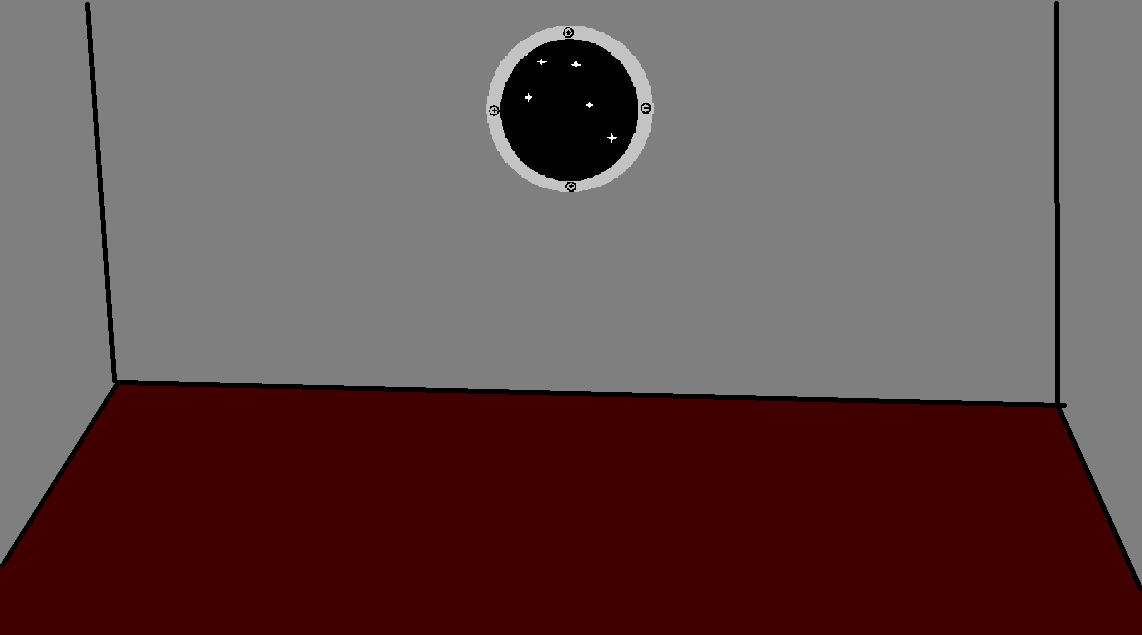
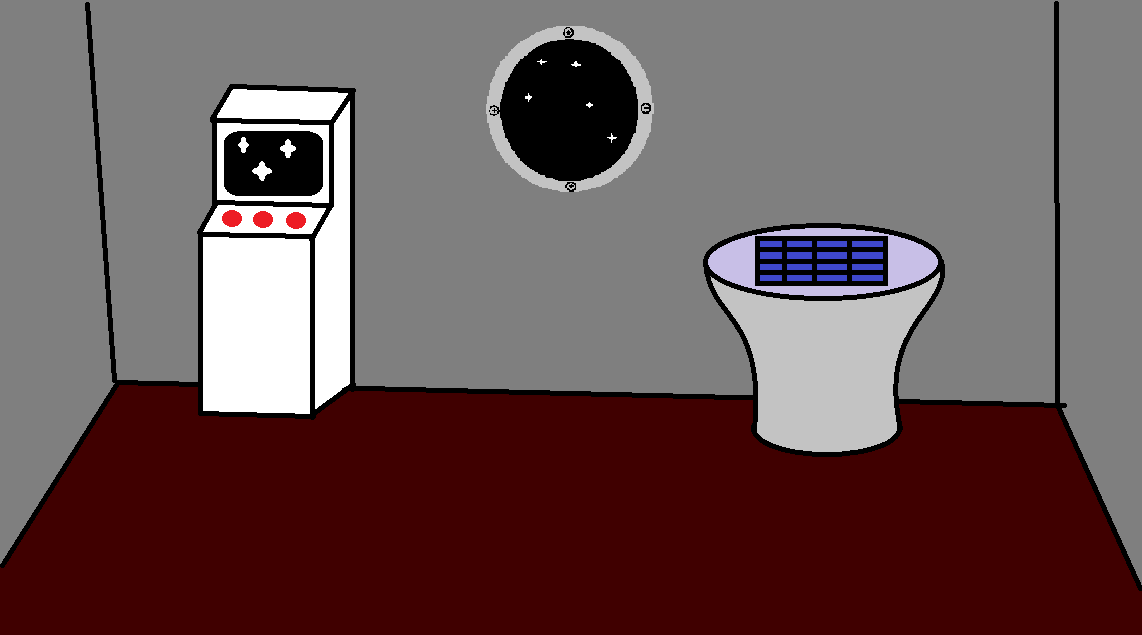
Added invisible buttons to pick up items and add to inventory.
Added invisible buttons to pick up items and add to inventory.

Changed region(s): [[0.1532, 0.1197, 0.3371, 0.6583], [0.613, 0.3291, 0.8275, 0.7181]]

diff --git a/src/CIS350Project/Inventory.java b/src/CIS350Project/Inventory.java
@@ -9,6 +9,14 @@ import java.text.*;
 
 public class Inventory extends JPanel {
     JLabel clue1;
+    boolean noteInv,coldOneInv = false;
+
+    public void setNoteInv() {
+        noteInv = true;
+    }
+    public void setColdOneInv() {
+        coldOneInv = true;
+    }
 
     public static void main(String[] args) {
         JFrame f = new JFrame();
@@ -29,15 +37,21 @@ public class Inventory extends JPanel {
 
         g.setColor(Color.WHITE);
         g.drawString("The exit code include the digits 1, 4, and 2", 10, 30);
-        g.drawString("The digits are entered in decending order", 10, 70);
+        g.drawString("The digits are entered in descending order", 10, 70);
 
 
         g.setColor(Color.BLACK);
         Font heading = new Font("Arial", Font.BOLD, 40);
         g.setFont(heading);
         g.drawString("Inventory", 580,50);
-        Image item = new ImageIcon("coldOne.png").getImage();
-        g.drawImage(item, 580, 60, this);
+        if(coldOneInv == true) {
+            Image item = new ImageIcon("coldOne.png").getImage();
+            g.drawImage(item, 580, 60, this);
+        }
+        if(noteInv == true) {
+            Image note = new ImageIcon("noteInv.png").getImage();
+            g.drawImage(note, 680, 60, this);
+        }
 
         g.setColor(Color.RED);
         Font clock = new Font("Baskerville Old Face", Font.BOLD, 50);
@@ -47,9 +61,14 @@ public class Inventory extends JPanel {
 
 
 
+
+
 //        clue1 = new JLabel("The exit code include the digits 5, 4, and 2");
 //        clue1.setBounds(10, 10, 500, 250);
 
 
+    }
+    public void redrawInv() {
+        repaint();
     }
 }

diff --git a/src/CIS350Project/ERoom.java b/src/CIS350Project/ERoom.java
@@ -28,7 +28,7 @@ public class ERoom extends JFrame implements ActionListener{
     private JMenuItem open;
     private JMenuItem exit;
 
-    private JButton turnRight, turnLeft, askForHint;
+    private JButton turnRight, turnLeft, askForHint, pickNote, coldOne;
 
     public static void main(String[] args) {
         ERoom gui = new ERoom();
@@ -78,6 +78,18 @@ public class ERoom extends JFrame implements ActionListener{
         turnLeft.setBounds(1, 300, 50, 50);
         panel.add(turnLeft);
         turnLeft.addActionListener(this);
+
+        pickNote = new JButton(".");
+        pickNote.setBounds(405,325,60,60);
+        panel.add(pickNote);
+        pickNote.setOpaque(false);
+        pickNote.addActionListener(this);
+
+        coldOne = new JButton(".");
+        coldOne.setBounds(765,174,30,80);
+        panel.add(coldOne);
+        coldOne.setOpaque(false);
+        coldOne.addActionListener(this);
     }
 
 
@@ -115,6 +127,18 @@ public class ERoom extends JFrame implements ActionListener{
             if (event.getSource() == turnRight) {
                 wall.setVisWall(wall.getVisWall() + 5);
                 wall.redraw();
+            }
+            if (event.getSource() == pickNote) {
+                wall.setNote();
+                wall.redraw();
+                inv.setNoteInv();
+                inv.redrawInv();
+            }
+            if (event.getSource() == coldOne) {
+                wall.setOne();
+                wall.redraw();
+                inv.setColdOneInv();
+                inv.redrawInv();
             }
         }
 //    }

diff --git a/src/CIS350Project/Wall.java b/src/CIS350Project/Wall.java
@@ -10,6 +10,10 @@ import java.awt.event.*;
 import java.awt.geom.*;
 
 public class Wall extends JPanel {
+    int visWall = 1;
+    boolean note = true;
+    boolean coldOneWall = true;
+
     public void setVisWall(int visWall) {
         this.visWall = visWall;
     }
@@ -17,8 +21,14 @@ public class Wall extends JPanel {
     public int getVisWall() {
         return visWall;
     }
+    public void setNote() {
+        note = false;
+    }
+    public void setOne() {
+        coldOneWall = false;
+    }
 
-    int visWall = 1;
+
 
     public static void main(String[] args) {
         JFrame f = new JFrame();
@@ -37,6 +47,16 @@ public class Wall extends JPanel {
         if(visWall % 4 == 1) {
             Image image = new ImageIcon("placeholderwall.png").getImage();
             g.drawImage(image, 0, 0, this);
+            if(note == true) {
+                Image note = new ImageIcon("noteHidden.png").getImage();
+                g.drawImage(note, 355, 300, this);
+            }
+            if(coldOneWall == true) {
+                Image note = new ImageIcon("coldOneWall.png").getImage();
+                g.drawImage(note, 700, 159, this);
+            }
+
+
         } else if (visWall % 4 == 2){
             Image image = new ImageIcon("placeholderwall2.png").getImage();
             g.drawImage(image, 0, 0, this);
